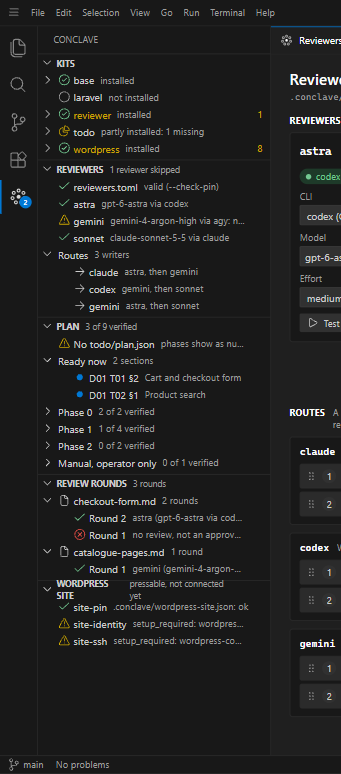
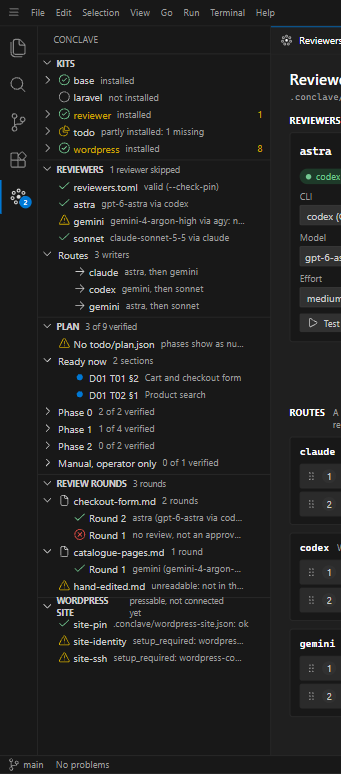
design: SPEC review round 2 fixes (D00 T01 §3)
Badge backgrounds keep the approved mockup values as defaults of two contributed colours instead of a mix the owner never approved; the read-only pin layout state, its status bar text and REVIEWERS row are in the SPEC; the section 12 screenshots are captured again from canvas version 27, which shows the unreadable round record; decisions.md names e37bd70 and version 27 as the current mockup source.

Checkpoint: exit 0.

Changed region(s): [[0.1466, 0.7442, 0.7331, 0.8682]]

diff --git a/design/SPEC.md b/design/SPEC.md
@@ -1,6 +1,6 @@
 # Conclave VS Code extension: interface SPEC
 
-The interface the extension builds, written from the approved mockup (`design/mockup/project/Main.dc.html` at the current mockup source `design/decisions.md` names, canvas version 26) and `design/decisions.md`. Every control appears in exactly one section below, with its states, its keyboard path and the exact text it shows. Text in backticks is verbatim; `{name}` marks a value filled in at run time. Screenshots are from the published canvas, in Dark Modern and Light Modern. The mockup's control bar (theme, scenario, SDK source, workspace) is not part of the extension (`design/platform-audit.md`). The plan (`docs/plans/2026-10-16-vscode-extension.md`) owns the requirements; this file owns how they look and read.
+The interface the extension builds, written from the approved mockup (`design/mockup/project/Main.dc.html` at the current mockup source `design/decisions.md` names, canvas version 27) and `design/decisions.md`. Every control appears in exactly one section below, with its states, its keyboard path and the exact text it shows. Text in backticks is verbatim; `{name}` marks a value filled in at run time. Screenshots are from the published canvas, in Dark Modern and Light Modern. The mockup's control bar (theme, scenario, SDK source, workspace) is not part of the extension (`design/platform-audit.md`). The plan (`docs/plans/2026-10-16-vscode-extension.md`) owns the requirements; this file owns how they look and read.
 
 ## 1. Layout and theming
 
@@ -50,8 +50,8 @@ Colours come only from the theme (alpha colours are written as 8-digit hex: `#9b
 | `--info-bg` | `#1b2a3a` | `#eaf2fb` | `--vscode-inputValidation-infoBackground` |
 | `--info-border` | `#0078d4` | `#005fb8` | `--vscode-inputValidation-infoBorder` |
 | `--ok` | `#73c991` | `#2d7a2a` | `--vscode-testing-iconPassed` |
-| `--badge-ok-bg` | `#1e3a29` | `#e3f1e2` | mix: 15% `--ok` into the background |
-| `--badge-off-bg` | `#3a1e1e` | `#fbeceb` | mix: 15% `--err` into the background |
+| `--badge-ok-bg` | `#1e3a29` | `#e3f1e2` | `--vscode-conclave-badgeOkBackground` |
+| `--badge-off-bg` | `#3a1e1e` | `#fbeceb` | `--vscode-conclave-badgeErrorBackground` |
 | `--code-bg` | `#181818` | `#f8f8f8` | `--vscode-textCodeBlock-background` |
 | `--diff-add` | `#9bb95538` | `#9bb95547` | `--vscode-diffEditor-insertedLineBackground` |
 | `--diff-del` | `#ff000038` | `#ff000024` | `--vscode-diffEditor-removedLineBackground` |
@@ -79,7 +79,7 @@ Colours come only from the theme (alpha colours are written as 8-digit hex: `#9b
 | `--dlg-bg` | `#202020` | `#f8f8f8` | `--vscode-editorWidget-background` |
 | `--scrim` | `rgba(0,0,0,.3)` | `rgba(0,0,0,.15)` | none: VS Code draws its own modal scrim |
 
-The two badge backgrounds have no theme variable, so the build mixes them: `color-mix(in srgb, var(--vscode-testing-iconPassed) 15%, var(--vscode-editor-background))` and the same with `--vscode-errorForeground`. That mix is the contract; the mockup's hex values for these two rows are its drawing (Dark Modern renders about `#2c3830` and `#402625`). The quick input, menu, dialog, activity bar, tab and status bar tokens describe VS Code's own chrome, which the mockup draws and the extension does not: the build uses them only where a webview mirrors that chrome. Links use `--vscode-textLink-foreground` and `--vscode-textLink-activeForeground`.
+The two badge backgrounds have no theme variable of VS Code's, so the extension contributes two colours (`contributes.colors`: `conclave.badgeOkBackground` and `conclave.badgeErrorBackground`) whose `dark` and `light` defaults are the values in the table (the high-contrast defaults take the dark and light values), and the webview reads them as `--vscode-conclave-badgeOkBackground` and `--vscode-conclave-badgeErrorBackground`; a theme or `workbench.colorCustomizations` can override them (`design/decisions.md`, 2026-10-20). The quick input, menu, dialog, activity bar, tab and status bar tokens describe VS Code's own chrome, which the mockup draws and the extension does not: the build uses them only where a webview mirrors that chrome. Links use `--vscode-textLink-foreground` and `--vscode-textLink-activeForeground`.
 
 ## 2. Reviewer cards
 
@@ -197,6 +197,7 @@ When the editor cannot show a pin it shows one state in place of it: an icon (in
 - Update from Conclave-SDK (from either dispatcher state): a confirmation `Update from Conclave-SDK?` with `forge.py sync refreshes every kit this folder has from {source}: skills, rules, subagents, scripts/ and bin/, and adds any kit file that is missing, scripts/review-dispatch.py among them.`, the scope sentence `It never changes an existing AGENTS.md, GEMINI.md, CLAUDE.md, CODEX.md, docs/, todo/ or .conclave/reviewers.toml, and Conclave checks that by hash afterwards.`, `Runs:` and the command, and `Update` and `Cancel`. A refused SDK source shows `Nothing was updated`, `The SDK source refused:` and the source's refusal with its actions (§8). The result: `Updated from Conclave-SDK`, `{argv}: {n} files added, {m} files updated.` (or `Nothing to do: every kit file matches the SDK.`), one row per file with `{kit}: added` or `{kit}: updated`, the hash line (§10), `Re-checked with --check-pin: ok.` and `Open the editor`.
 - No Python (error): `No Python 3.11 or later`. `The dispatcher needs Python 3.11 or later: it reads the pin with tomllib. Nothing was run. Tried, in order:` then each try and its result (`conclave.pythonPath`, `py -3`, `python` on Windows; `python3`, `python` in WSL), then `Install Python 3.11 or later, or point the setting at one. In a Remote WSL window the editor runs on the Linux side and tries python3, then python.` Actions `Open Settings` (at `conclave.pythonPath`), `Retry`.
 - Untrusted workspace (warning): `Restricted Mode`. `This editor runs scripts/review-dispatch.py from the workspace, so it works only in a trusted workspace. Nothing has been run.` Action `Manage Workspace Trust`.
+- Layout not editable (warning): `This pin uses a layout the editor does not edit`. `The pin is valid, and reviews run. It is written with inline tables, quoted keys or arrays over several lines, and the editor edits only [reviewers.<name>] tables with one key per line and a one-line array per route, so it changes nothing here: every comment and line stays as you wrote it.` `Edit the file by hand, or rewrite it in that layout to edit it here.` Actions `Open file`, `Retry`. The layout is the one `docs/specs/2026-10-20-vscode-extension-design.md` section 2 defines; the pin is valid by `--check-pin` first.
 - Newer schema (warning): `This pin is newer than the editor`. `The workspace dispatcher accepts schema_version = {n}, but this version of Conclave Reviewers edits schema_version = 1 only. Reviews still run.` `Update the extension, or edit the file by hand.` Actions `Open file`, `Retry`.
 - Pin refused (error): `The reviewer pin was refused`. `scripts/review-dispatch.py --check-pin says:` and the refusal in an error box; `Every review round is refused until this is fixed. The editor opens a pin only when its TOML parses and it has exactly schema_version, [reviewers.*] and [routes], so fix this one in the file.`; a six-line excerpt (two lines before the faulty one, marked `>` on the error background, two after). Actions `Open file at line {n}`, `Retry`.
 
@@ -210,7 +211,7 @@ Entry points (plan R26, `design/decisions.md` answer 10):
 - Command Palette: `Conclave: Open Reviewer Settings` (`conclave.openReviewers`), `Conclave: Update Kits`, `Conclave: Set Up a New Repository`, `Conclave: Refresh Kits`, and in a multi-root workspace `Conclave: Switch Folder`.
 - Explorer context menu on `.conclave/reviewers.toml` only: `Open in Conclave Reviewers`.
 - Editor title button, while the pin is open as text: `Open in Conclave Reviewers` (title and label).
-- Status bar item: `Conclave Reviewers: {state}` with `valid` (pass icon) or `refused` (error icon) in the editor, and otherwise `pin refused`, `no dispatcher` or `no Python` (error icon), or `newer schema`, `no pin`, `dispatcher too old` or `Restricted Mode` (warning icon). Its tooltip is `Conclave Reviewers: ` and one of `the dispatcher refuses this pin`, `the pin is valid` or the state, then `. Open Reviewer Settings`; clicking it opens the editor. A Python item beside it reads `Python {version}` or `Python: none usable`.
+- Status bar item: `Conclave Reviewers: {state}` with `valid` (pass icon) or `refused` (error icon) in the editor, and otherwise `pin refused`, `no dispatcher` or `no Python` (error icon), or `layout not editable`, `newer schema`, `no pin`, `dispatcher too old` or `Restricted Mode` (warning icon). Its tooltip is `Conclave Reviewers: ` and one of `the dispatcher refuses this pin`, `the pin is valid` or the state, then `. Open Reviewer Settings`; clicking it opens the editor. A Python item beside it reads `Python {version}` or `Python: none usable`.
 
 SDK source (plan R24, R25, `design/decisions.md` answers 8 and 9): every forge run names its source as `bundled Conclave-SDK@{sha}` (the default), the `conclave.sdkPath` checkout path, or `rizonetech/Conclave-SDK@{sha}` (`conclave.sdkRef`, resolved to a commit). A source that fails is shown, wherever forge would have run, as its title and body, `Nothing was downloaded or run.`, and its actions, primary first:
 
@@ -276,7 +277,7 @@ Confirmation, a modal: `Set up {name} with Conclave-SDK?`, `Kits: base, {kits}. 
 
 Under the Kits tree, one view per feature, each shown only while its kit is in the current folder, in the order REVIEWERS, PLAN, REVIEW ROUNDS and WORDPRESS SITE (plan R33 to R37, `design/decisions.md` answer 14). Row icons: `check` ok, `warning` warning, `error` error, `info` info, `circle-filled` ready, `lock` blocked, `file` a record, `arrow-right` a route.
 
-REVIEWERS (reviewer kit): title actions `Open Reviewer Settings` and `Refresh`; description `ready` or `{n} reviewer skipped`. The first row is the pin's state: `reviewers.toml` `valid (--check-pin)` (or `valid, changed on disk`), `refused: {message}`, or `newer schema than this extension reads`; or `No reviewer pin` `.conclave/reviewers.toml is missing`, `No dispatcher` `scripts/review-dispatch.py is missing`, `Dispatcher too old` `no --check-pin; update from Conclave-SDK`, `No Python 3.11 or later` `nothing runs until one is found`, `Restricted Mode` `trust the workspace to run the dispatcher`, with an install action where one applies. With a valid pin, one row per reviewer (`{model} via {cli}`, or `{model} via {cli}: not on PATH, skipped`, action `Open {name} in Reviewer Settings`) and a `Routes` group (`{n} writers`) with one row per writer: `{reviewer}, then {fallback}` (the fallback of a third family).
+REVIEWERS (reviewer kit): title actions `Open Reviewer Settings` and `Refresh`; description `ready` or `{n} reviewer skipped`. The first row is the pin's state: `reviewers.toml` `valid (--check-pin)` (or `valid, changed on disk`), `refused: {message}`, `valid; a layout the editor does not edit`, or `newer schema than this extension reads`; or `No reviewer pin` `.conclave/reviewers.toml is missing`, `No dispatcher` `scripts/review-dispatch.py is missing`, `Dispatcher too old` `no --check-pin; update from Conclave-SDK`, `No Python 3.11 or later` `nothing runs until one is found`, `Restricted Mode` `trust the workspace to run the dispatcher`, with an install action where one applies. With a valid pin, one row per reviewer (`{model} via {cli}`, or `{model} via {cli}: not on PATH, skipped`, action `Open {name} in Reviewer Settings`) and a `Routes` group (`{n} writers`) with one row per writer: `{reviewer}, then {fallback}` (the fallback of a third family).
 
 PLAN (todo kit), read from `scripts/todo-graph.py query plan` (`D06 T01 §2`): title actions `Validate the plan`, `Open the plan` and `Refresh`; description `{n} of {m} verified`. Without `todo/plan.json` a first row `No todo/plan.json` `phases show as numbers`. Then `Ready now` (`{n} sections`), and one collapsed group per phase, `Phase {n}: {name}` or `Phase {n}`, described `{n} of {m} verified`. A section row is its reference, described by its title (plus ` (needs {ref})` when blocked), tooltip `{status}: {title}`, action `Open {ref}`.
 

diff --git a/docs/reviews/00-design/D00-T01-s3.md b/docs/reviews/00-design/D00-T01-s3.md
@@ -1,0 +1,93 @@
+# Review: D00 T01 §3 Interface SPEC and screenshots
+
+- Candidate: `ff78d23..e6a6a6f` (`ff78d23` the no-pin text fix in the mockup, `e6a6a6f` the SPEC, screenshots and decision update).
+- Section contract: `python scripts/todo-graph.py resolve "D00 T01 §3"`.
+- Governing documents: `design/mockup/project/Main.dc.html` at `ff78d23` (the source), `design/decisions.md`, `docs/plans/2026-10-16-vscode-extension.md`, `design/platform-audit.md`.
+
+## Self-review
+
+- Source: three read-only inventories of `Main.dc.html` (regions 1 to 4, 5 to 8, 9 to 12), each quoting the mockup's texts with line numbers; the SPEC quotes them, with `{name}` for run-time values.
+- Found while writing: the no-pin screen still named the old three-reviewer chain; fixed in the mockup first (`ff78d23`, canvas version 26), as `design/decisions.md` requires, and the decision now names that commit as the current mockup source for parity.
+- Defaults the SPEC records (not in the mockup): every token mapped to a `--vscode-*` variable (the mockup names none; `D00 T01 §1` deferred the map to this SPEC); two badge backgrounds with no theme variable are mixes; a kit the mockup predates shows its README description in the new repository picker; Test reviewer's refused outcome is the disabled button with its title, because the mockup never runs a test on a refused pin.
+- Screenshots: 24 PNGs from the published canvas, a Dark Modern and a Light Modern per section; §11's light screenshot is the summary dialog, because the quick pick closes when the theme control is used.
+- Gates: checkpoint exit 0, and exit 1 with `design/screens/12-light.png` moved away; the Markdown table and dash tests pass; `validate` 53 sections.
+
+## Round 1: astra (`gpt-6-astra` via `codex`)
+
+- Writer: claude
+- Run: 2026-10-20T08:57:02Z
+- Effort: medium
+- Lines: 23
+
+## source-defect: needs-attention
+
+1. **The two-chip limit hides the overlength-route repair state.** `design/SPEC.md:115` permits “at most two chips,” but the mockup renders every existing entry (`Main.dc.html:1978`). Reproduce with scenario `err-route-too-long`: three chips appear, allowing removal of the excess entry. A builder following the SPEC would hide or omit that repair control.
+
+2. **Unchanged diff lines lose their numbers.** `design/SPEC.md:185` says an unchanged line has neither marker nor number. The mockup’s `lineDiff` assigns unchanged lines their new-file number (`Main.dc.html:1316`). Edit a model and select **Diff against disk**: unchanged surrounding lines remain numbered.
+
+3. **The SPEC assigns excluded chrome to the extension.** `design/SPEC.md:158` specifies changing VS Code’s problems item to `1 problem in reviewers.toml` or `No problems`. `design/platform-audit.md` explicitly classifies that problems item as chrome, never built. Reproduce by implementing §4 literally: it introduces a product responsibility the governing audit excludes.
+
+4. **The delete confirmation is not verbatim.** `design/SPEC.md:102` says `{writers} is left with no reviewer...`; the mockup says `{writers} is then left with no reviewer...` (`Main.dc.html:1916`). Leave one reviewer in a route, then delete that reviewer to expose the mismatch.
+
+## consistency: needs-attention
+
+5. **The prescribed badge mixes cannot reproduce the listed colours.** `design/SPEC.md:53` and `:54` specify 20% success/error colour over the editor background. Using the table’s Dark values, ordinary sRGB blending produces approximately `#304136` and `#4a2927`, respectively, rather than `#1e3a29` and `#3a1e1e`. Following the formula and following the reference colours yield different badges; the SPEC needs one consistent rendering contract.
+
+## design: needs-attention
+
+6. **Unreadable review records have no implementable presentation.** `design/SPEC.md:283` says an unreadable findings file is shown, but supplies no label, description, icon, message, or action for that state. Feed `--list-rounds --json` a result containing an unreadable file: a builder must invent its presentation, despite the checked requirement that every row type has its codicon and text.
+
+## record: needs-attention
+
+7. **The checkpoint passes with required content removed.** `todo/00-design/TODO-01-reviewer-editor-design.md:161` requires only eleven headings and checks only image links that remain. Evaluating its predicate against the candidate entirely in memory returned `0` both after removing §12 and after removing every Light screenshot link. Thus it does not substantiate its claim to fail when a section is missing or enforce the required screenshot pair per section.
+
+OVERALL: needs-attention
+
+## Response to round 1
+
+All seven findings are real; fixed in `7c0ddf9`, each checked against the mockup first (`Main.dc.html:1316` numbers unchanged diff lines; `:1916` says `is then left`; `design/platform-audit.md:43` classes the problems item as chrome).
+
+1. Overlong routes: the editor adds at most two, and a hand-edited route with more shows every entry with its refusal, so the extra can be removed.
+2. Diff numbering: unchanged lines are numbered in the new file.
+3. The problems item is VS Code's chrome and is not drawn by the extension.
+4. The delete impact is verbatim: `{writers} is then left with no reviewer, so that work gets no review.`
+5. Badge backgrounds: one contract, `color-mix(in srgb, <status colour> 15%, <editor background>)`; the mockup's hex for those two rows is its drawing (computed Dark Modern values `#2c3830` and `#402625`).
+6. An unreadable round record is a `warning` row with its file name, `unreadable: not in the record format`, a tooltip saying why, and `Open {file}`.
+7. The checkpoint now requires sections 1 to 12 in order, each linking its own `N-dark.png` and `N-light.png` that exist; with one light link removed it exits 1 naming the section.
+
+Gates: checkpoint exit 0; Markdown table and dash tests pass; `validate` 53 sections.
+
+## Round 2: astra (`gpt-6-astra` via `codex`)
+
+- Writer: claude
+- Run: 2026-10-20T09:00:38Z
+- Effort: medium
+- Lines: 15
+
+### source-defect: approve
+
+### consistency: needs-attention
+
+1. `design/SPEC.md:82`: The badge fix changes the visual contract instead of matching the approved mockup. The prescribed mixes produce approximately `#2c3830` and `#402625`, whereas `Main.dc.html:20,141-142` renders `#1e3a29` and `#3a1e1e`. Reproduce by comparing the specified mixes with the mockup’s badge backgrounds. Calling the mix “the contract” does not satisfy `design/decisions.md:3,11`, which requires design changes to be recorded and applied to the mockup first.
+
+### design: needs-attention
+
+2. `design/SPEC.md:283`: The unreadable-record presentation exists only in the SPEC. The candidate mockup’s round renderer (`Main.dc.html:1689-1701`) handles normal records and an empty list but has no unreadable-file row or fixture. Reproduce by inspecting its round data and renderer: the new warning, description, tooltip and action cannot be displayed. The missing presentation is now specified, but its required mockup implementation and dated design entry remain absent.
+
+### record: needs-attention
+
+3. `design/SPEC.md:138`: The newly added post-save refusal contract cites a document absent from this candidate. Reproduce with `git show 7c0ddf9:docs/specs/2026-10-20-vscode-extension-design.md`, which fails because the path is not in that commit. The working-tree draft cannot substantiate the committed reference; include the supporting decision or cite an existing committed source.
+
+OVERALL: needs-attention
+
+## Response to round 2
+
+All three findings hold.
+
+1. Badge backgrounds: calling a 15% mix the contract changed the approved look without a dated decision. Reverted to the mockup's values: they become two contributed colours (`conclave.badgeOkBackground`, `conclave.badgeErrorBackground`) whose defaults are the table's hex, read as `--vscode-conclave-*`; recorded in `design/decisions.md` (2026-10-20, "Review findings on the SPEC and design spec").
+2. The unreadable-record row now exists in the mockup first (`e37bd70`: a `hand-edited.md` record, the warning row, its tooltip and `Open hand-edited.md`), republished as canvas version 27 (`1792496267-c8bd`); `design/screens/12-dark.png` and `12-light.png` were captured again from it and show the row. The SPEC wording matches the mockup's strings.
+3. The toast's source, `docs/specs/2026-10-20-vscode-extension-design.md`, is committed now (`ed5d61c`, section 4).
+
+Also from the §4 review, applied to the mockup first in `e37bd70` and carried into the SPEC: the read-only `This pin uses a layout the editor does not edit` state (§7), its status bar text `layout not editable` and REVIEWERS row `valid; a layout the editor does not edit`. The SPEC names canvas version 27.
+
+Gates: §3 checkpoint exit 0; Markdown table and dash tests pass; `validate` 53 sections.

diff --git a/design/decisions.md b/design/decisions.md
@@ -46,7 +46,7 @@ Independent review of `D00 T01 §3` and `§4` found states the design did not dr
 - The two badge backgrounds the theme has no variable for are colours the extension contributes (`conclave.badgeOkBackground`, `conclave.badgeErrorBackground`) with the mockup's values as their defaults, so the approved look stands and a theme can override it.
 - The example round that no reviewer returned now skips two reviewers, as a route of one reviewer and one fallback can.
 
-Applied to `design/mockup/project/Main.dc.html` in the commit that adds this entry; the current mockup source below names it.
+Applied to `design/mockup/project/Main.dc.html` in `e37bd70` and republished to the same link as canvas version 27 (version id `1792496267-c8bd`); `design/screens/12-dark.png` and `12-light.png` were captured again from that version. Current mockup source, for the parity fixtures: `design/mockup/project/` at commit `e37bd70be836517a74e569fb231e9802352b2b0c` (canvas version 27).
 
 ## Other owner decisions
 
